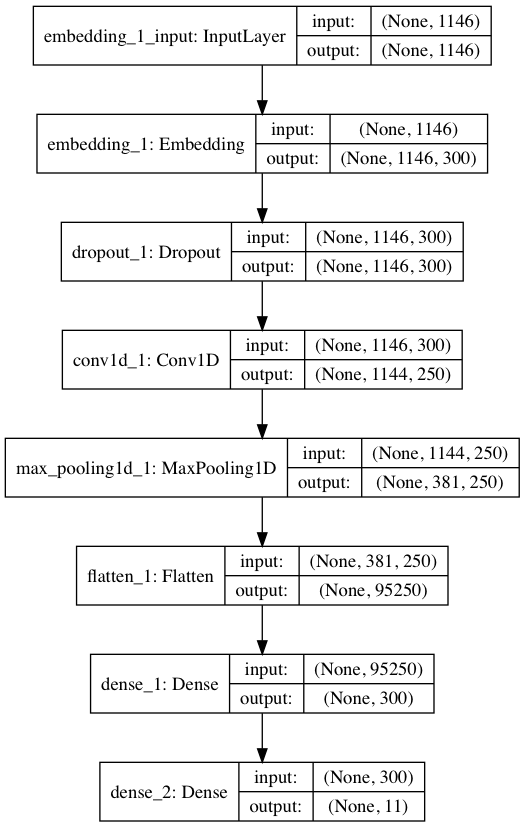
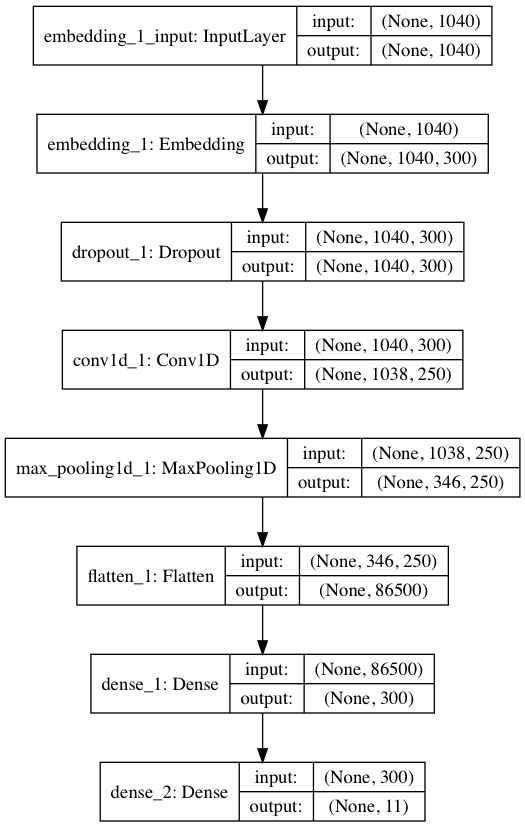
fix

diff --git a/nlp_workspace/text_classification_demo/text_classification.py b/nlp_workspace/text_classification_demo/text_classification.py
@@ -43,7 +43,7 @@ def get_texts_labels():
     conn = pymysql.connect(**MYSQL_CONFIG)
     cursor = conn.cursor(cursor=pymysql.cursors.DictCursor)
     for index, category in enumerate(CATEGORYS.keys()):
-        sql = 'select id, content_fenci, category from sohu_news where content_fenci is not null and category=%s limit 1000'
+        sql = 'select id, content_fenci, category from sohu_news where content_fenci is not null and category=%s limit 100'
         cursor.execute(sql, category)
         items += cursor.fetchall()
     random.shuffle(items)
@@ -109,7 +109,7 @@ def load_w2v_as_embedding(word_index, input_length):
     return embedding_layer
 
 
-def train_model(embedding_layer, labels, x_train, y_train, x_validate, y_validate):
+def train_model_cnn_w2v(embedding_layer, labels, x_train, y_train, x_validate, y_validate):
     '''
     constructure and train model
     :return:
@@ -131,6 +131,28 @@ def train_model(embedding_layer, labels, x_train, y_train, x_validate, y_validat
     return model
 
 
+def train_model_cnn(word_index, sequences, labels, x_train, y_train, x_validate, y_validate):
+    '''
+    constructure and train model
+    :return:
+    '''
+    model = Sequential()
+    model.add(Embedding(input_dim=len(word_index) + 1, output_dim=EMBEDDING_DIM, input_length=sequences.shape[1]))
+    model.add(Dropout(rate=0.2))
+    model.add(Conv1D(filters=250, kernel_size=3, strides=1, padding='valid', activation='relu'))
+    model.add(MaxPool1D(pool_size=3))
+    model.add(Flatten())
+    model.add(Dense(units=EMBEDDING_DIM, activation='relu'))
+    model.add(Dense(units=labels.shape[1], activation='softmax'))
+    model.summary()
+    plot_model(model, to_file='model.png', show_shapes=True)
+    model.compile(optimizer='rmsprop', loss='categorical_crossentropy', metrics=['acc'])
+    print(model.metrics_names)
+    model.fit(x=x_train, y=y_train, validation_data=(x_validate, y_validate), epochs=2, batch_size=128)
+    # model.save(TRAINED_MODEL)
+    return model
+
+
 def evaluate_model(model, x_test, y_test):
     '''
     test model
@@ -140,7 +162,7 @@ def evaluate_model(model, x_test, y_test):
 
 def main():
     '''
-    Main process
+    使用预训练的w2v模型来构造embedding_layer。
     :return:
     '''
     # 1. 加载文本，标签
@@ -152,8 +174,27 @@ def main():
     # 4. 使用word2vec的向量模型来构造embedding_layer
     embedding_layer = load_w2v_as_embedding(word_index, input_length=sequences.shape[1])
     # 5. 构造模型，训练模型
-    model = train_model(embedding_layer, labels, x_train, y_train, x_validate, y_validate)
+    model = train_model_cnn_w2v(embedding_layer, labels, x_train, y_train, x_validate, y_validate)
     # 6. 评估验证模型
+    loss, accuracy = evaluate_model(model, x_test, y_test)
+    print(loss, accuracy)
+
+
+def main2():
+    '''
+    不使用预训练的w2v模型来构造embedding_layer。
+    0.25653166955709455 0.9315
+    :return:
+    '''
+    # 1. 加载文本，标签
+    texts, labels = get_texts_labels()
+    # 2. 文本分词
+    sequences, labels, word_index = texts_labels_tokenizer(texts, labels)
+    # 3. 数据分割为，训练集，验证集，测试集
+    x_train, y_train, x_validate, y_validate, x_test, y_test = texts_labels_slicer(sequences, labels)
+    # 4. 构造模型，训练模型
+    model = train_model_cnn(word_index, sequences, labels, x_train, y_train, x_validate, y_validate)
+    # 5. 评估验证模型
     loss, accuracy = evaluate_model(model, x_test, y_test)
     print(loss, accuracy)
 
